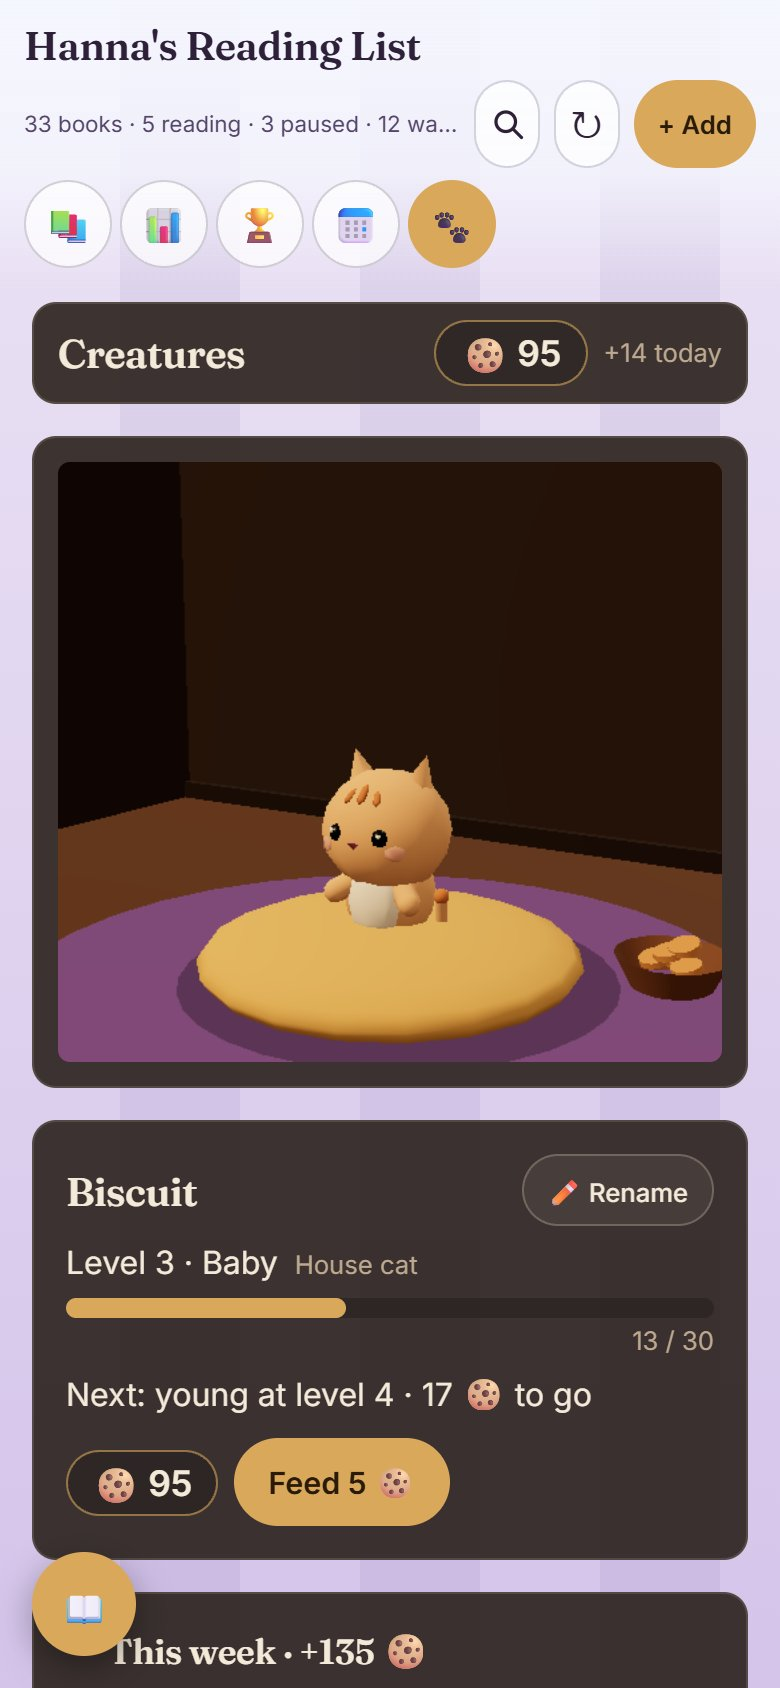
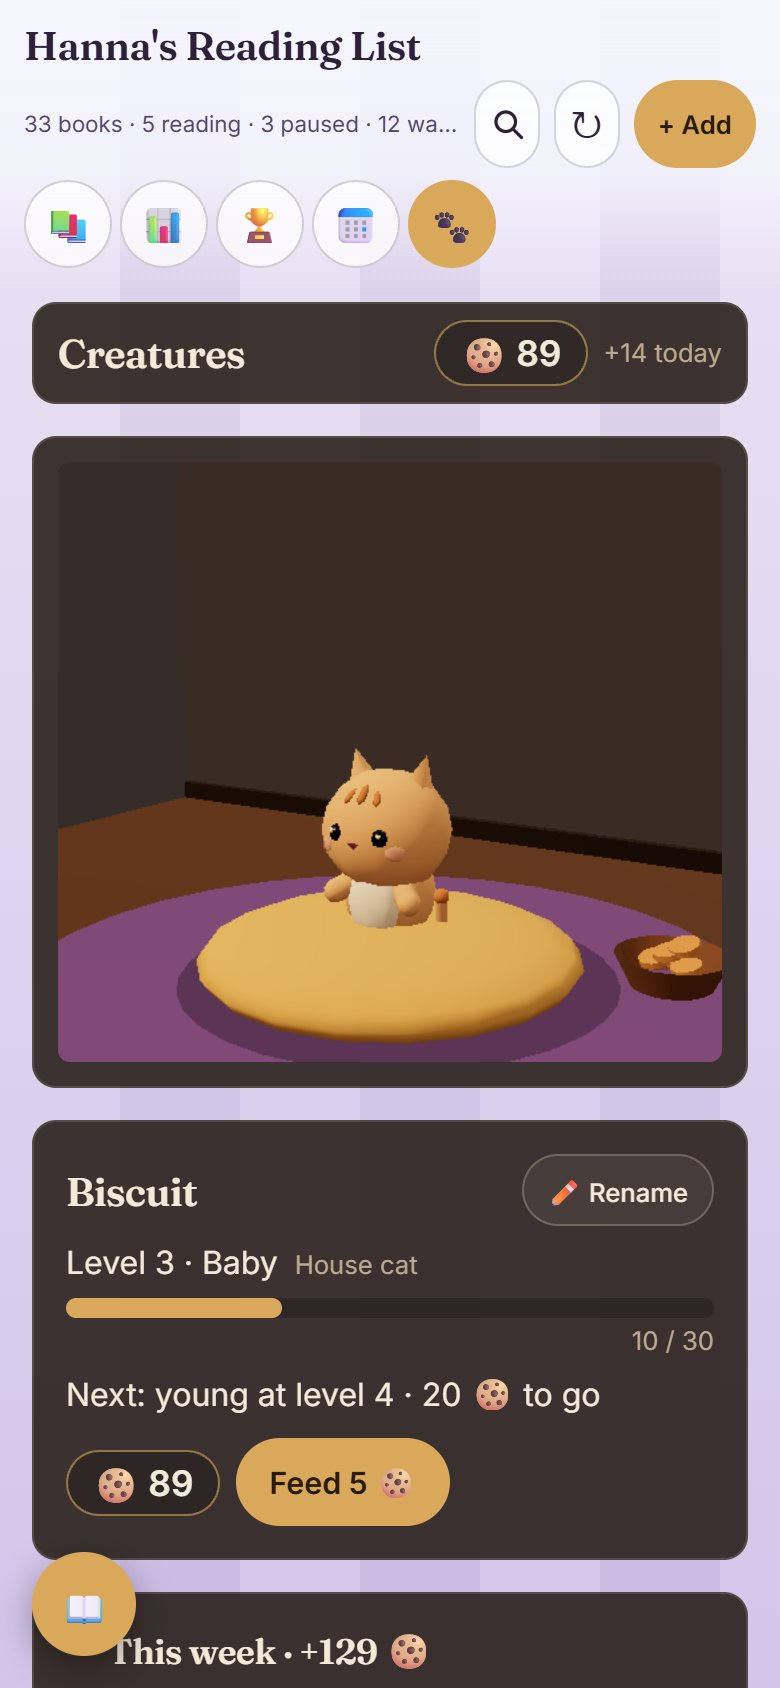
T-0029: UX must-fix 1-3: warm unlit den walls, flat egg spots, CREATURES_START on the go-live day; This week parts wrap whole (developer)

diff --git a/src/components/creatures/DenScene.tsx b/src/components/creatures/DenScene.tsx
@@ -42,6 +42,7 @@ interface Props {
 }
 
 const WALL = '#3a2c24'
+const SIDE_WALL = '#362c2a'
 const FLOOR = '#5a3f2c'
 const RUG = '#6e4f8f'
 const GOLD = '#d9a85b'
@@ -151,13 +152,16 @@ function Room({ phone }: { phone: boolean }) {
         <planeGeometry args={[12, 12]} />
         <meshStandardMaterial color={FLOOR} roughness={0.9} />
       </mesh>
-      <mesh position={[0, 3, -1.6]} receiveShadow={!phone}>
+      {/* the walls show their own colour, untouched by light and tone mapping (the key light sits
+          behind the left wall's plane, and ACES made both nearly black): the back wall #3a2c24, the
+          left one a little darker but still warm brown */}
+      <mesh position={[0, 3, -1.6]}>
         <planeGeometry args={[12, 6]} />
-        <meshStandardMaterial color={WALL} roughness={1} />
+        <meshBasicMaterial color={WALL} toneMapped={false} />
       </mesh>
-      <mesh position={[-2.2, 3, 0]} rotation={[0, Math.PI / 2, 0]} receiveShadow={!phone}>
+      <mesh position={[-2.2, 3, 0]} rotation={[0, Math.PI / 2, 0]}>
         <planeGeometry args={[12, 6]} />
-        <meshStandardMaterial color={WALL} roughness={1} />
+        <meshBasicMaterial color={SIDE_WALL} toneMapped={false} />
       </mesh>
       {/* a skirting board where wall meets floor, so the corner reads */}
       <mesh position={[0, 0.04, -1.58]}>
@@ -228,6 +232,38 @@ const SPOTS: Array<[number, number]> = [
   [5.7, 0.7],
 ]
 
+/**
+ * The six gold spots on the upper half, lying flat on the shell. They live inside the egg's
+ * [1, 1.28, 1] group, so each one first undoes that scale (scale [1, 1/1.28, 1] at its point) and is
+ * then turned to the shell's real normal there: a non-uniform parent scale would otherwise skew the
+ * flattened discs sideways into slits.
+ */
+const EGG_STRETCH = 1.28
+const SPOT_PLACES = SPOTS.map(([a, h]) => {
+  // a point on the unit-scaled half sphere: angle a round it, height h (0 equator … 1 top)
+  const phi = (1 - h) * (Math.PI / 2)
+  const p = new THREE.Vector3(Math.sin(phi) * Math.cos(a), Math.cos(phi), Math.sin(phi) * Math.sin(a))
+  // the normal of the stretched egg at that point
+  const n = new THREE.Vector3(p.x, p.y / EGG_STRETCH, p.z).normalize()
+  const q = new THREE.Quaternion().setFromUnitVectors(new THREE.Vector3(0, 0, 1), n)
+  return { position: p.multiplyScalar(EGG_R * 0.985).toArray() as [number, number, number], quaternion: q }
+})
+
+function EggSpots() {
+  return (
+    <>
+      {SPOT_PLACES.map((s, i) => (
+        <group key={i} position={s.position} scale={[1, 1 / EGG_STRETCH, 1]}>
+          <mesh quaternion={s.quaternion} scale={[1, 1, 0.3]}>
+            <sphereGeometry args={[0.032, 10, 6]} />
+            <meshStandardMaterial color={GOLD} roughness={0.7} />
+          </mesh>
+        </group>
+      ))}
+    </>
+  )
+}
+
 function EggHalf({ top, phone }: { top: boolean; phone: boolean }) {
   const seg = phone ? 16 : 24
   return (
@@ -236,20 +272,7 @@ function EggHalf({ top, phone }: { top: boolean; phone: boolean }) {
         <sphereGeometry args={[EGG_R, seg, seg / 2, 0, Math.PI * 2, top ? 0 : Math.PI / 2, Math.PI / 2]} />
         <meshStandardMaterial color={EGG} roughness={1} side={THREE.DoubleSide} />
       </mesh>
-      {top &&
-        SPOTS.map(([a, h], i) => {
-          // on the upper half's surface, at angle a round it and height h (0 equator … 1 top)
-          const phi = (1 - h) * (Math.PI / 2)
-          const x = EGG_R * Math.sin(phi) * Math.cos(a)
-          const z = EGG_R * Math.sin(phi) * Math.sin(a)
-          const y = EGG_R * Math.cos(phi)
-          return (
-            <mesh key={i} position={[x * 0.97, y * 0.97, z * 0.97]} scale={[1, 1, 0.35]} onUpdate={(m) => m.lookAt(x * 2, y * 2, z * 2)}>
-              <sphereGeometry args={[0.03, 8, 6]} />
-              <meshStandardMaterial color={GOLD} roughness={0.7} />
-            </mesh>
-          )
-        })}
+      {top && <EggSpots />}
     </group>
   )
 }

diff --git a/src/components/CreaturesPage.test.tsx b/src/components/CreaturesPage.test.tsx
@@ -2,7 +2,8 @@ import { act, cleanup, fireEvent, render, screen, within } from '@testing-librar
 import { afterAll, afterEach, beforeAll, beforeEach, describe, expect, it, vi } from 'vitest'
 import type { Book } from '#/lib/library'
 import { suggestedName } from '#/lib/creatures/creature'
-import { SUGGESTED_NAMES, WELCOME_EGG } from '#/lib/creatures/numbers'
+import { CREATURES_START, SUGGESTED_NAMES, WELCOME_EGG } from '#/lib/creatures/numbers'
+import { addDays } from '#/lib/creatures/days'
 
 // no server: signed out, every server function mocked like the other dashboard tests
 vi.mock('#/server/shelf', () => ({
@@ -36,7 +37,8 @@ const { Dashboard } = await import('./Dashboard')
  * (as on a device without it) and the hatch goes straight to the name step.
  */
 
-const TODAY = '2026-11-25'
+// relative to the go-live day, so moving CREATURES_START to the merge day needs no change here
+const TODAY = addDays(CREATURES_START, 2)
 const LOG_KEY = 'hannas-reading-list:creatures:local'
 // 20 % of 300 pages = 60 pages = 90 minutes = 18 cookies, today
 const BOOKS: Book[] = [
@@ -150,7 +152,7 @@ describe('the welcome flow', () => {
   })
 
   it('says “Your creatures arrive soon.” before the start day', () => {
-    vi.setSystemTime(new Date('2026-11-20T12:00:00'))
+    vi.setSystemTime(new Date(`${addDays(CREATURES_START, -3)}T12:00:00`))
     try {
       tab()
       expect(screen.getByText('Your creatures arrive soon.')).toBeTruthy()
@@ -287,10 +289,10 @@ describe('Waiting for you and the dashboard block', () => {
   it('shows only the newest level-up, once, until Nice! on this device', () => {
     hatchSaved('cat', 'Biscuit')
     // a lot of reading over a week: 7 reading days and plenty of cookies fed
-    const days = Array.from({ length: 7 }, (_, i) => `2026-11-${String(19 + i).padStart(2, '0')}`)
+    const days = Array.from({ length: 7 }, (_, i) => addDays(TODAY, i - 6))
     const books = [{ ...BOOKS[0], pages: 3000, readingLog: Object.fromEntries(days.map((d) => [d, 0.05])) }]
     const log = savedLog()
-    log[0].at = new Date('2026-11-23T08:00:00').getTime()
+    log[0].at = new Date(`${CREATURES_START}T08:00:00`).getTime()
     log.push({ id: 'feed-big', at: new Date(`${TODAY}T09:00:00`).getTime(), kind: 'feed', pet: WELCOME_EGG, amount: 60 })
     localStorage.setItem(LOG_KEY, JSON.stringify(log))
     render(
@@ -316,7 +318,7 @@ describe('Waiting for you and the dashboard block', () => {
   it('never puts a mood in Waiting for you', () => {
     hatchSaved('cat', 'Biscuit')
     const log = savedLog()
-    log[0].at = new Date('2026-11-18T08:00:00').getTime()
+    log[0].at = new Date(`${addDays(TODAY, -7)}T08:00:00`).getTime()
     localStorage.setItem(LOG_KEY, JSON.stringify(log))
     act(() => void dash())
     expect(screen.queryByText(/misses you/, { selector: '.waiting-card *' })).toBeNull()

diff --git a/src/components/CreaturesPage.tsx b/src/components/CreaturesPage.tsx
@@ -1,4 +1,4 @@
-import { useEffect, useLayoutEffect, useRef, useState } from 'react'
+import { Fragment, useEffect, useLayoutEffect, useRef, useState } from 'react'
 import type { Book } from '#/lib/library'
 import { speciesById } from '#/lib/creatures/species'
 import type { SpeciesId } from '#/lib/creatures/species'
@@ -474,14 +474,28 @@ function WeekCard({ c, phone }: { c: Creatures; phone: boolean }) {
 }
 
 function WeekRow({ line, today }: { line: WeekLine; today: string }) {
-  const parts: string[] = []
-  if (Math.round(line.minutes) > 0) parts.push(minutesText(line.minutes))
-  if (Math.round(line.sleepMinutes) > 0) parts.push(`🌙 ${minutesText(line.sleepMinutes)}`)
-  for (const b of line.finished) parts.push(`📗 ${b.title}`)
+  // each part wraps as a whole ("🌙 30 min" never splits); only a long book title may wrap inside
+  const parts: React.ReactNode[] = []
+  if (Math.round(line.minutes) > 0) parts.push(<span className="week-part">{minutesText(line.minutes)}</span>)
+  if (Math.round(line.sleepMinutes) > 0) parts.push(<span className="week-part">🌙 {minutesText(line.sleepMinutes)}</span>)
+  line.finished.forEach((b) =>
+    parts.push(
+      <span className="week-part">
+        📗 <span className="week-title">{b.title}</span>
+      </span>,
+    ),
+  )
   return (
     <li>
       <span className="week-day">{dayLabel(line.day, today)}</span>
-      <span className="week-what">{parts.join(' · ')}</span>
+      <span className="week-what">
+        {parts.map((part, i) => (
+          <Fragment key={i}>
+            {i > 0 && ' · '}
+            {part}
+          </Fragment>
+        ))}
+      </span>
       <span className="week-cookies">+{line.cookies} 🍪</span>
     </li>
   )

diff --git a/src/lib/creatures/numbers.ts b/src/lib/creatures/numbers.ts
@@ -6,8 +6,15 @@ import type { SpeciesId } from './species'
  * them (what earns, that nothing is ever lost) are D-0033's.
  */
 
-/** The day the creatures went live (D-0033 §1): nothing before it earns. yyyy-mm-dd, device time. */
-export const CREATURES_START = '2026-11-23'
+/**
+ * The go-live day of the creatures (D-0033 §1, §3): the day this reaches `main`. Nothing before it
+ * earns, so on her first visit the welcome egg comes with no cookies. yyyy-mm-dd, device time.
+ *
+ * SET THIS TO THE ACTUAL MERGE DAY when rebasing on `main` to open the pull request (and the
+ * tester moves it again if the merge slips). 2026-11-24 is the planned day, after T-0027 (#241).
+ * Tests work relative to it, so changing it needs no other change.
+ */
+export const CREATURES_START = '2026-11-24'
 
 // ---- cookies (D-0033 §2) ----------------------------------------------------------------
 

diff --git a/src/lib/creatures/creaturesSync.test.ts b/src/lib/creatures/creaturesSync.test.ts
@@ -75,6 +75,7 @@ vi.mock('#/server/creatures', async () => {
 
 const { useCreatureChoices, creaturesKey } = await import('#/components/useCreatureChoices')
 const { deriveCreatures } = await import('./creature')
+const { CREATURES_START } = await import('./numbers')
 
 const ACCOUNT = 'hanna123'
 
@@ -111,7 +112,7 @@ class Device {
     return JSON.parse(this.storage.get(creaturesKey(this.account)) ?? '[]')
   }
   creature() {
-    return deriveCreatures([], this.log, new Date('2026-11-25T12:00:00')).pet
+    return deriveCreatures([], this.log, new Date(`${CREATURES_START}T12:00:00`)).pet
   }
   async comeBack() {
     Object.defineProperty(document, 'visibilityState', { value: 'visible', configurable: true })

diff --git a/src/styles.css b/src/styles.css
@@ -5267,6 +5267,12 @@ button.today-item:hover {
 .week-cookies {
   white-space: nowrap;
 }
+.week-part {
+  white-space: nowrap;
+}
+.week-title {
+  white-space: normal;
+}
 
 /* the dashboard block */
 .creatures-row {

diff --git a/docs/lessons.md b/docs/lessons.md
@@ -18,3 +18,4 @@ into a proposed rule change for the harness.
 - 2026-11-22 T-0023 developer: the UX review sent back the pile switch's wrapped state: the design allowed it to wrap, but `.segmented`'s 999px pill radius turns a two-row box into a blob with a button sticking out, and I only screenshotted widths where it fit (with 4 px to spare). When a layout has a fallback (wrapping, overflow, a second row), make it happen once in the dev server (a narrower phone or larger text) and screenshot it, not only the widths where it doesn't trigger.
 - 2026-11-22 T-0025 developer: the UX review sent back two CSS slips: a dimmed ‹ › still changed on hover, because the base `.btn:hover:not(:disabled)` doesn't know `aria-disabled` and outranks a two-class rule; and the zoom buttons I was told to copy were 38 px, which I measured and only logged. When a design asks for "exactly like X", copy X's measured result, and fix X when it misses the design's own size; and when "disabled" is `aria-disabled`, hover the dimmed control in the dev server and read its computed style, since `:disabled` rules won't cover it.
 - 2026-11-23 T-0027 developer: the UX review sent back four of the 20 creatures (capybara read as a bear, the unicorn as a pig, the bookmark fox's ribbons as wings, the African penguin's chest spots as a mouth, and the bookmark fox's shiny ribbons vanished on midnight). The model test and my screenshots passed, but I only checked budgets, parts and that every tile rendered, and handed the "does it read as this animal?" question wholly to the reviewer. When agents produce visual work in bulk, look at each piece at its real size (120 px here) against its one-line description before handing over, and also check that the shiny's key feature shows on the darkest wallpaper; a passing test proves the structure, not the look.
+- 2026-11-23 T-0029 developer: the UX review sent back three things: the den's walls came out nearly black (the key light sat behind the left wall's plane and ACES darkened the rest), the egg's spots stood out as slits (`lookAt` with local coordinates inside a non-uniformly scaled group), and `CREATURES_START` sat before the go-live day, so the "no cookies on the welcome egg" rule was broken in every screenshot. I looked at the screenshots for layout, not for whether the colours on screen matched the design's hex values. When a design names a colour for a lit 3D surface, sample that surface's pixels in the screenshot before handing over. Don't orient children of a non-uniformly scaled group with world-space helpers. And a "start day" constant that gates what she earns goes on the go-live day, with tests written relative to it.

diff --git a/docs/tasks/T-0029-first-creature-and-growing.md b/docs/tasks/T-0029-first-creature-and-growing.md
@@ -662,3 +662,25 @@ Developer's own checks (2026-11-23, night); the tester's independent run goes he
   pill sit on the header card), the layout test change. Worth doing: keep *This week* parts from
   breaking inside at 390. Back to the developer; re-review after new den, egg and block
   screenshots.
+- 2026-11-23 developer: fixed the UX review's three must-fixes and the non-blocking item. (1) The
+  den walls are unlit (`meshBasicMaterial`, `toneMapped={false}`): the back wall is `#3a2c24` and
+  the left wall `#362c2a`. Floor, rug, cushion and creature are unchanged. Sampled 5×5 patches in
+  the new screenshots: back wall `#3a2b24` in `tab-1280-lav`, `tab-1280-mid`, `tab-390-mid`,
+  `tab-390-lav` and `tab-egg-1280-mid` (within ±12 of `#3a2c24`); left wall `#362c2a` in all of
+  them (no channel below `#2a`, R > G > B); 14/14 PASS. (2) The egg's spots: each one undoes the
+  egg's [1, 1.28, 1] scale at its point and is turned to the stretched shell's real normal, instead
+  of `lookAt` with local coordinates. They now lie flat as round gold dots (`tab-egg-*`, and the
+  96 px block in the new `block-egg-390-lav` / `block-egg-1280-mid`). (3) `CREATURES_START` in
+  `src/lib/creatures/numbers.ts` is now the go-live day, set to the planned 2026-11-24 with a
+  comment. The tests are written relative to it (they also passed with it set to 2026-12-05, then
+  set back). **Whoever rebases on `main` to open the PR: set `CREATURES_START` to the actual merge
+  day** (it can't merge before #241; the tester moves it again if the merge slips). The `tab-egg-*`
+  shots now use the go-live day as the clock: 🍪 9, only today's reading. (4) This week at 390:
+  each part ("45 min", "🌙 30 min", "📗 title") is a `nowrap` span, and only a book title may wrap
+  inside (`tab-390-lav-card`). Retook `tab-egg-*`, `tab-*`, `block-*` and `waiting-egg-*` on both
+  wallpapers (port 3146, vite stopped afterwards). The other older shots (stages, moods, fed,
+  negative, choose, hello) still show the old dark walls and the 2026-11-23 balances; the review
+  didn't ask for them, so the tester or the re-review can retake them. `tsc --noEmit`: no output.
+  Touched tests: 9 files, 114 passed. Lesson added. Still no PR (after #241). Remaining: UX
+  re-review; draft PR after #241 with `CREATURES_START` set to the merge day; tester; Hanna's five
+  morning questions; Done when 5.
